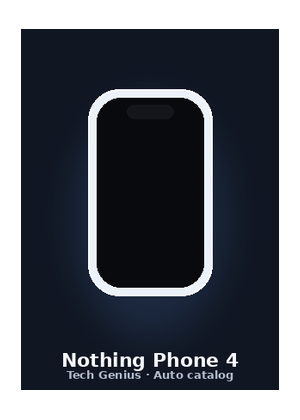
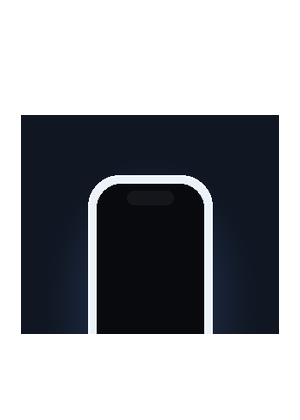
Put repairs in the embed, where customers actually are
Repairs have been in the admin and on the preview page for a week, and on the
shop's own site they did not exist. shopifyEmbed.tsx — the file that becomes
tg-trade-in.js, the script in the Framer block — mounted TradeInFlow and
TrackOffer and nothing else. The Sell/Repair switch went into App.tsx, which
is only the local preview. Every live embed served the trade-in alone, so
nobody visiting the shop could book a repair. I verified the flow on the page
I was developing against and never loaded the file customers load.

The embed now mounts both, with data-mode choosing what a block offers:
"both" with a switch, "sell" for the trade-in alone as before, "repair" for a
shop that wants it on its own page. The default is both, so the existing
Framer block gains repairs without being edited; adding data-mode="sell"
keeps it as it was.

The switch's styles moved from AppShell.css to tokens.css. The embed loads
only tokens and embedHost, so left where they were the switch would have been
two unstyled buttons on the shop's site — found by reading the imports rather
than by shipping it.

Also in the repair device picker, from looking at it rendered rather than at
the code: the cards showed "Up to $1,274 CAD", which is the trade-in payout —
what we would pay to buy the phone — in front of someone choosing one to have
repaired. Gone in repair mode, unchanged when selling. The first device sat at
821px on an 844px phone, below the fold, behind a heading, a sentence that
[…]

diff --git a/trade-in-platform/src/shopifyEmbed.tsx b/trade-in-platform/src/shopifyEmbed.tsx
@@ -1,6 +1,7 @@
-import { StrictMode } from "react";
+import { StrictMode, useEffect, useState } from "react";
 import { createRoot, type Root } from "react-dom/client";
 import { TradeInFlow } from "./components/TradeInFlow";
+import { RepairFlow } from "./components/RepairFlow";
 import { TrackOffer } from "./components/TrackOffer";
 import { WidgetErrorBoundary } from "./components/WidgetErrorBoundary";
 import { resetApiBase } from "./lib/tradeInApi";
@@ -16,8 +17,21 @@ const MOUNT_ID = "tg-trade-in-root";
  * The host page configures the backend, so one built file works everywhere:
  *   <div id="tg-trade-in-root"
  *        data-api="https://api.techgenius.ca"
- *        data-org="tech-genius"></div>
+ *        data-org="tech-genius"
+ *        data-mode="both"></div>
+ *
+ * data-mode picks what the block offers:
+ *   both    sell and repair, with a switch between them (default)
+ *   sell    trade-in only — what every existing embed did before repairs
+ *   repair  repair only, for a shop that wants it on its own page
+ *
+ * The default is "both" rather than "sell" on purpose: repairs existed for a
+ * week in the admin and on the preview page while every live embed still
+ * mounted the trade-in alone, so nobody visiting the shop could book one. An
+ * embed that already says data-mode="sell" is unaffected.
  */
+type Mode = "sell" | "repair";
+
 let root: Root | null = null;
 
 /**
@@ -39,6 +53,65 @@ function ensureFont() {
   document.head.appendChild(link);
 }
 
+/**
+ * Sell and repair in one block.
+ *
+ * The switch is only drawn when the host asked for both; a single-purpose
+ * embed shows its one flow with no chrome above it. #repair in the host page's
+ * URL opens on repairs, so a shop can link straight to it from its own menu.
+ */
+function Widget({ offer }: { offer: "both" | Mode }) {
+  const initial: Mode =
+    offer === "repair" || (offer === "both" && window.location.hash === "#repair") ? "repair" : "sell";
+  const [mode, setMode] = useState<Mode>(initial);
+
+  useEffect(() => {
+    if (offer !== "both") return;
+    const onHash = () => setMode(window.location.hash === "#repair" ? "repair" : "sell");
+    window.addEventListener("hashchange", onHash);
+    return () => window.removeEventListener("hashchange", onHash);
+  }, [offer]);
+
+  const choose = (m: Mode) => {
+    setMode(m);
+    // Replace rather than push: the switch is not a page the back button
+    // should have to walk through on the shop's own site.
+    window.history.replaceState(null, "", m === "repair" ? "#repair" : window.location.pathname + window.location.search);
+  };
+
+  return (
+    <>
+      {offer === "both" ? (
+        <div className="mode-switch" role="tablist" aria-label="Sell or repair">
+          <button
+            type="button"
+            role="tab"
+            aria-selected={mode === "sell"}
+            className={mode === "sell" ? "is-on" : ""}
+            onClick={() => choose("sell")}
+          >
+            Sell
+          </button>
+          <button
+            type="button"
+            role="tab"
+            aria-selected={mode === "repair"}
+            className={mode === "repair" ? "is-on" : ""}
+            onClick={() => choose("repair")}
+          >
+            Repair
+          </button>
+        </div>
+      ) : null}
+
+      {mode === "repair" ? <RepairFlow /> : <TradeInFlow />}
+      {/* Tracking is for trade-in offers; a repair has its own id and the
+          shop calls about it. */}
+      {mode === "sell" ? <TrackOffer /> : null}
+    </>
+  );
+}
+
 function mount() {
   ensureFont();
   const el = document.getElementById(MOUNT_ID);
@@ -56,6 +129,9 @@ function mount() {
     resetApiBase();
   }
 
+  const asked = (el.getAttribute("data-mode") || "both").trim().toLowerCase();
+  const offer: "both" | Mode = asked === "sell" || asked === "repair" ? asked : "both";
+
   // Framer previews re-run this on every edit; reuse the root so React does not
   // warn about mounting twice into the same container.
   root ??= createRoot(el);
@@ -63,8 +139,7 @@ function mount() {
     <StrictMode>
       <div className="tg-trade-in-host" data-platform="techgenius">
         <WidgetErrorBoundary>
-          <TradeInFlow />
-          <TrackOffer />
+          <Widget offer={offer} />
         </WidgetErrorBoundary>
       </div>
     </StrictMode>,

diff --git a/trade-in-platform/src/components/DevicePickStep.tsx b/trade-in-platform/src/components/DevicePickStep.tsx
@@ -22,6 +22,14 @@ interface Props {
   onBrandFilter: (b: Brand | "All") => void;
   onQuery: (q: string) => void;
   onSelect: (device: DeviceModel) => void;
+  /**
+   * Which journey this picker is serving. The grid, the search and the
+   * ordering are the same either way; what a device is worth is not. The
+   * price on a card is the trade-in payout, which is the wrong number to put
+   * in front of someone choosing a phone to have repaired — it is what we
+   * would pay to buy it from them.
+   */
+  mode?: "sell" | "repair";
 }
 
 /** After category: search OR browse image devices — mirrors GoRecell/UniverCell */
@@ -37,6 +45,7 @@ export function DevicePickStep({
   onBrandFilter,
   onQuery,
   onSelect,
+  mode = "sell",
 }: Props) {
   const deferredQuery = useDeferredValue(query);
   const catLabel = categories.find((c) => c.id === category)?.label ?? "devices";
@@ -105,15 +114,22 @@ export function DevicePickStep({
   return (
     <section className="flow-panel">
       <header className="flow-header">
-        <h1>Search or select your {catLabel.toLowerCase()}</h1>
-        <p className="flow-lead">
-          Type a model name or tap a device photo — powered by Tech Genius catalog
-          {apiOnline === false ? " (offline fallback)" : ""}.
-        </p>
+        <h1>
+          {mode === "repair"
+            ? `Which ${catLabel.toLowerCase()} needs fixing?`
+            : `Search or select your ${catLabel.toLowerCase()}`}
+        </h1>
+        {/* The search box below says what to do, and on a phone this sentence
+            was two of the lines that pushed every device past the fold. It
+            stays only when the catalogue is offline, where it explains why the
+            list is short. */}
+        {apiOnline === false ? (
+          <p className="flow-lead">Showing a saved copy of the catalogue — search still works.</p>
+        ) : null}
       </header>
 
-      <label className="field">
-        <span>Search your model here…</span>
+      <label className="field field--search">
+        <span className="sr-only">Search your model</span>
         <input
           value={query}
           onChange={(e) => onQuery(e.target.value)}
@@ -215,11 +231,13 @@ export function DevicePickStep({
                 })()}
               </span>
               <span className="device-card-name">{device.name}</span>
-              <span className="device-card-price">
-                {device.basePrice > 0
-                  ? `Up to $${device.basePrice.toLocaleString()} CAD`
-                  : "Get instant quote"}
-              </span>
+              {mode === "repair" ? null : (
+                <span className="device-card-price">
+                  {device.basePrice > 0
+                    ? `Up to $${device.basePrice.toLocaleString()} CAD`
+                    : "Get instant quote"}
+                </span>
+              )}
             </button>
           ))}
         </div>

diff --git a/trade-in-platform/src/tokens.css b/trade-in-platform/src/tokens.css
@@ -210,3 +210,35 @@ select,
   --radius-control: 8px;  /* buttons, inputs, chips */
   --radius-surface: 10px; /* cards, panels, table shells */
 }
+
+/* ——— Sell / Repair ———
+   Lives here rather than in AppShell.css because the embed loads only tokens
+   and embedHost: with the switch styled in the shell, the block on a shop's
+   own site rendered two unstyled buttons. */
+/* Sell / Repair. Two large targets, one clearly chosen, above either flow. */
+.mode-switch {
+  display: inline-flex;
+  gap: 4px;
+  padding: 4px;
+  margin: 0 0 1rem;
+  border: 1px solid var(--line);
+  border-radius: 999px;
+  background: var(--fog);
+}
+.mode-switch button {
+  min-height: 44px;
+  padding: 0 1.4rem;
+  border: 0;
+  border-radius: 999px;
+  background: transparent;
+  color: var(--ink-soft);
+  font-weight: 650;
+  cursor: pointer;
+  transition: background 0.18s var(--ease), color 0.18s var(--ease);
+}
+.mode-switch button.is-on {
+  background: var(--paper);
+  color: var(--ink);
+  box-shadow: var(--shadow);
+}
+.mode-switch button:focus-visible { outline: 2px solid var(--mint-dim); outline-offset: 2px; }

diff --git a/trade-in-platform/src/components/ChoiceGrid.css b/trade-in-platform/src/components/ChoiceGrid.css
@@ -125,9 +125,39 @@
 
 .brand-chip-row {
   display: flex;
-  flex-wrap: wrap;
   gap: 0.4rem;
   margin-bottom: 0.25rem;
+}
+
+/* On a phone the thirteen brands wrapped to four rows and, with the heading
+   and the search box above them, pushed the first device to 821px on an 844px
+   screen — a customer saw no devices at all. One scrolling row instead: the
+   brand you want is almost always in the first three, and the rest are a
+   swipe away rather than a screenful. */
+@media (max-width: 720px) {
+  .brand-chip-row {
+    flex-wrap: nowrap;
+    overflow-x: auto;
+    scroll-snap-type: x proximity;
+    -webkit-overflow-scrolling: touch;
+    scrollbar-width: none;
+    padding-bottom: 0.15rem;
+  }
+
+  .brand-chip-row::-webkit-scrollbar {
+    display: none;
+  }
+
+  .brand-chip-row .chip {
+    flex: 0 0 auto;
+    scroll-snap-align: start;
+  }
+}
+
+@media (min-width: 721px) {
+  .brand-chip-row {
+    flex-wrap: wrap;
+  }
 }
 
 /* Brand chips carried a device photograph shrunk to 18x22 as a stand-in for a

diff --git a/trade-in-platform/src/AppShell.css b/trade-in-platform/src/AppShell.css
@@ -120,30 +120,3 @@
   margin: 0;
 }
 
-/* Sell / Repair. Two large targets, one clearly chosen, above either flow. */
-.mode-switch {
-  display: inline-flex;
-  gap: 4px;
-  padding: 4px;
-  margin: 0 0 1rem;
-  border: 1px solid var(--line);
-  border-radius: 999px;
-  background: var(--fog);
-}
-.mode-switch button {
-  min-height: 44px;
-  padding: 0 1.4rem;
-  border: 0;
-  border-radius: 999px;
-  background: transparent;
-  color: var(--ink-soft);
-  font-weight: 650;
-  cursor: pointer;
-  transition: background 0.18s var(--ease), color 0.18s var(--ease);
-}
-.mode-switch button.is-on {
-  background: var(--paper);
-  color: var(--ink);
-  box-shadow: var(--shadow);
-}
-.mode-switch button:focus-visible { outline: 2px solid var(--mint-dim); outline-offset: 2px; }

diff --git a/trade-in-platform/src/components/RepairFlow.tsx b/trade-in-platform/src/components/RepairFlow.tsx
@@ -181,6 +181,7 @@ export function RepairFlow() {
                 setBrandFilter(b);
               }}
               onQuery={setQuery}
+              mode="repair"
               onSelect={(d) => {
                 setDevice(d);
                 setStep("problem");

diff --git a/trade-in-backend/scripts/build_device_image.py b/trade-in-backend/scripts/build_device_image.py
@@ -293,18 +293,12 @@ def draw_silhouette(name: str, brand: str, size=(300, 420), *,
             radius=6, fill=(*accent_rgb, 255),
         )
 
-    # Model name — the part that has to survive being shrunk into a grid tile.
-    title = (name or "Device").strip()
-    font = _fit_font(draw, title, width - 28, 23)
-    tw = draw.textbbox((0, 0), title, font=font)
-    draw.text(((width - (tw[2] - tw[0])) / 2, label_top + 6), title,
-              fill=(248, 250, 253, 255), font=font)
-
-    badge = "Photo coming soon"
-    small = load_font(11, bold=False)
-    bw = draw.textbbox((0, 0), badge, font=small)
-    draw.text(((width - (bw[2] - bw[0])) / 2, label_top + 34), badge,
-              fill=(178, 188, 204, 235), font=small)
+    # No caption, no badge. The card already prints the model name directly
+    # under the tile, so a name burned into the picture says it twice — and
+    # says it in a bar that covers the device. "New device · image built" and
+    # "Photo coming soon" are worse than redundant: they are our internal
+    # vocabulary telling a customer the picture is not real, on the screen
+    # where they are choosing which phone is theirs.
 
     return img.convert("RGB")
 
@@ -322,20 +316,12 @@ def adapt_base(base: Path, name: str, brand: str, size=(300, 420)) -> Image.Imag
     oy = 28
     canvas.alpha_composite(tinted, (ox, oy))
 
-    draw = ImageDraw.Draw(canvas)
-    font = load_font(20 if len(name) < 20 else 16)
-    small = load_font(12)
-    title = name.strip()
-    tw = draw.textbbox((0, 0), title, font=font)
-    draw.rounded_rectangle(
-        [18, size[1] - 62, size[0] - 18, size[1] - 14],
-        radius=14,
-        fill=(0, 0, 0, 150),
-    )
-    draw.text(((size[0] - (tw[2] - tw[0])) / 2, size[1] - 54), title, fill=(255, 255, 255, 255), font=font)
-    badge = "New device · image built"
-    bw = draw.textbbox((0, 0), badge, font=small)
-    draw.text(((size[0] - (bw[2] - bw[0])) / 2, size[1] - 32), badge, fill=(*accent, 255), font=small)
+    # No caption, no badge. The card already prints the model name directly
+    # under the tile, so a name burned into the picture says it twice — and
+    # says it in a bar that covers the device. "New device · image built" and
+    # "Photo coming soon" are worse than redundant: they are our internal
+    # vocabulary telling a customer the picture is not real, on the screen
+    # where they are choosing which phone is theirs.
     return canvas.convert("RGB")
 
 
